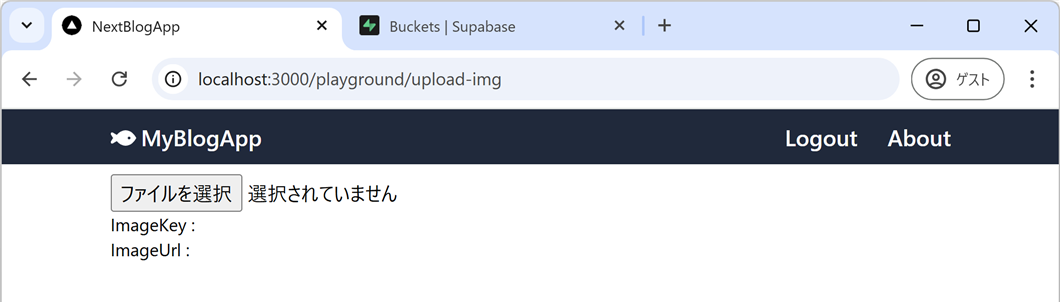
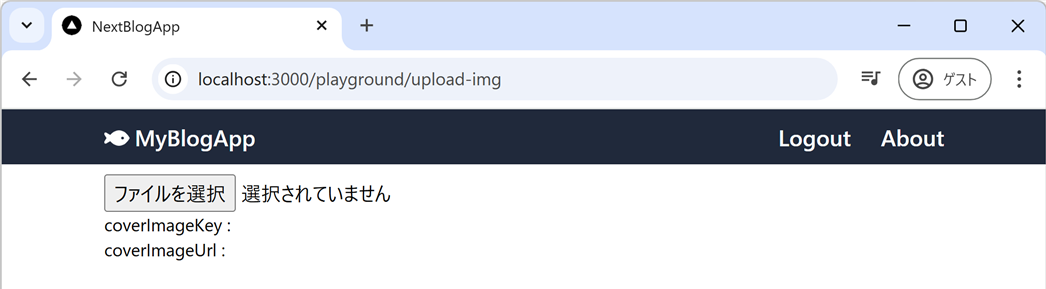
docs: update app_01.png, app_02.png and lecture11.html

diff --git a/docs/lecture11.html b/docs/lecture11.html
@@ -558,7 +558,7 @@ npm i -D @types/crypto-js</code></pre>
 <span id="cb9-56"><a href="#cb9-56"></a>}<span class="op">;</span></span>
 <span id="cb9-57"><a href="#cb9-57"></a></span>
 <span id="cb9-58"><a href="#cb9-58"></a><span class="im">export</span> <span class="im">default</span> Page<span class="op">;</span></span></code></pre></div>
-      <p>まずは、開発モード (<code>npm run dev</code>) でアプリを立ち上げて
+      <p>開発モード (<code>npm run dev</code>) でアプリを立ち上げて
       <code>/playground/upload-img</code>
       にアクセスして、次のような画面が表示されることを確認してください。ログインしていないときは、ログインしてください。</p>
       <figure>
@@ -566,8 +566,8 @@ npm i -D @types/crypto-js</code></pre>
       <figcaption aria-hidden="true">img</figcaption>
       </figure>
       <p>次に「<strong>ファイルを選択</strong>」ボタンを押下して、ファイル選択ダイアログを表示し、予めダウンロードしておいた<a
-      href="figs/11/cover-img-green.jpg">cover-img-green.jpg</a>を選択してください。そして、
-      <code>ImageKey</code> と <code>coverImageUrl</code>
+      href="figs/11/cover-img-green.jpg">cover-img-green.jpg</a>を選択してください。そして、画面上の
+      <code>coverImageKey</code> と <code>coverImageUrl</code>
       がどのような値になるか確認してください。</p>
       <p>また、再度、「<strong>ファイルを選択</strong>」から cover-img-green.jpg (同じファイル)
       を選択しても問題がないことを確認してください。デベロッパーツールのコンソール出力にもエラー等がでていないことを確認してください。</p>
@@ -585,16 +585,16 @@ npm i -D @types/crypto-js</code></pre>
       <ul>
       <li><code>ほげほげ.png</code> や <code>ぴよぴよ.png</code>
       など、<strong>名前に日本語を含む画像ファイル</strong>をアップロードしようとすると、どのようになるか確認してください。</li>
-      <li><strong>第22行目</strong> の <code>private/${file.name}</code> を
-      <code>hoge/${file.name}</code> に変更して (つまり、保存先のフォルダを <code>private</code>
+      <li><strong>第22行目</strong> の <code>`private/${file.name}`</code> を
+      <code>`hoge/${file.name}`</code> に変更して (つまり、保存先のフォルダを <code>private</code>
       以外のものに設定して) cover-img-green.jpg
-      をアップロードを試みるとどのようになるか確認してください。試したあとは、元に戻しておいてください。</li>
+      のアップロードを試みるとどのようになるか確認してください。試したあとは、元に戻しておいてください。</li>
       <li><strong>第26行目</strong> の <code>upsert: true</code> を <code>upsert: false</code>
       に変更して cover-img-green.jpg
-      をアップロードを試みるとどのようになるか確認してください。試したあとは、元に戻しておいてください
+      のアップロードを試みるとどのようになるか確認してください。試したあとは、元に戻しておいてください
       <ul>
       <li><strong>Upsert</strong> とは <span class="masked">Insert と Update を合体させた造語</span>
-      で、もし、そのファイルが存在していなければ挿入 (Insert)、存在していれば更新 (Update)
+      で、当該ファイルが存在していなければ挿入 (Insert)、存在していれば更新 (Update)
       という意味になります。</li>
       </ul></li>
       </ul>
